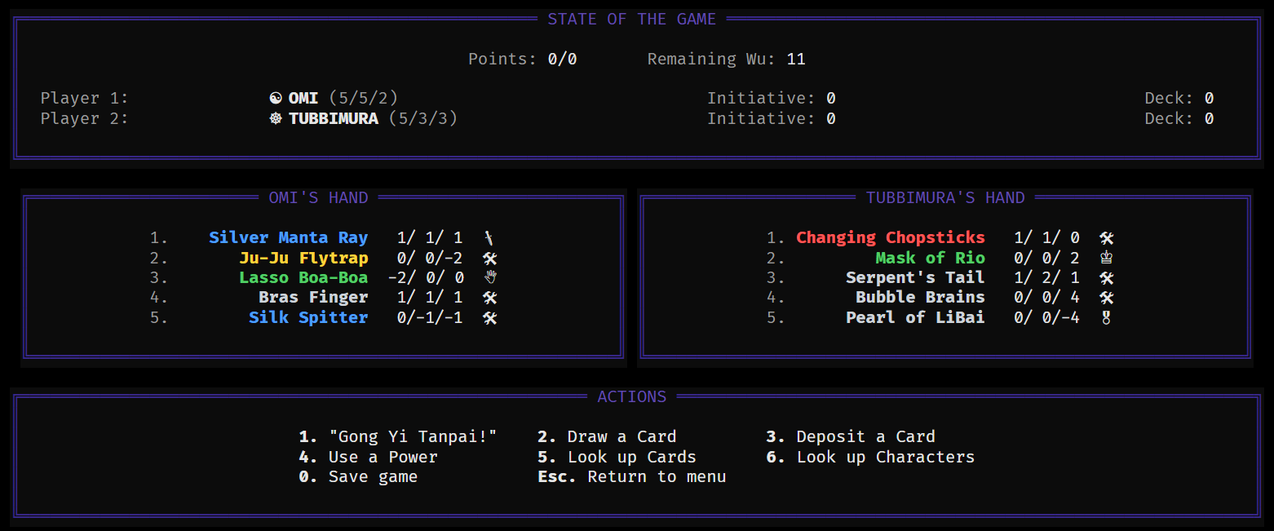
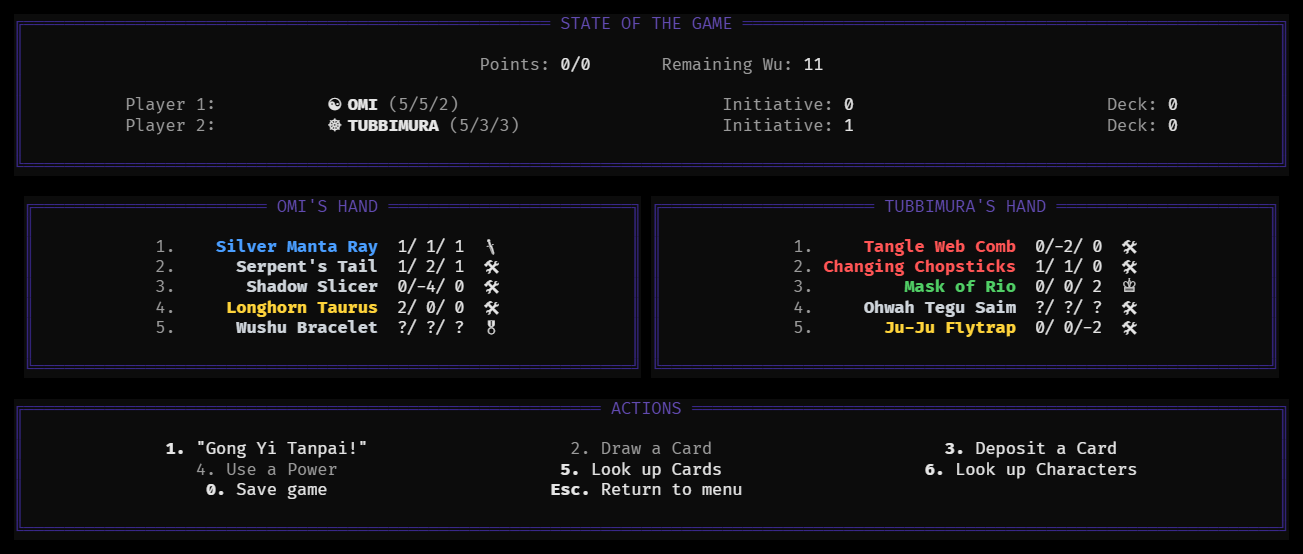
Stop clicks stealing keyboard focus; widen vault state and action rows

diff --git a/engine/termcade/ui/widgets/button.py b/engine/termcade/ui/widgets/button.py
@@ -1,0 +1,18 @@
+"""``Button`` — Textual's button with click-to-focus disabled.
+
+In termcade, focus *is* the keyboard navigation cursor: nothing is focused until the player tabs or
+arrows into the options (``EngineScreen.AUTO_FOCUS = ""``), and the focused option wears a
+reverse-video highlight. Textual focuses any focusable widget on mouse-down
+(``Screen._forward_event`` → ``set_focus``), which would leave that cursor parked on whatever the
+mouse last touched — so a click looked like a selection.
+
+Clicking still presses the button; it just no longer moves the cursor.
+"""
+
+from __future__ import annotations
+
+from textual.widgets import Button as TextualButton
+
+
+class Button(TextualButton):
+    FOCUS_ON_CLICK = False

diff --git a/games/xiaolin_showdown/screens/vault.py b/games/xiaolin_showdown/screens/vault.py
@@ -180,9 +180,12 @@ def _state_grid(player: Player, bot: Player, init_player: int, init_bot: int) ->
 
 
 def _actions_grid(available: dict[str, bool]) -> Table:
-    grid = Table.grid(padding=(0, 4))  # natural width so the panel can centre the whole block
+    # Expand to the panel and split it into three equal columns, so the actions spread across the
+    # width instead of huddling in a natural-width block in the middle. Each entry is centred in its
+    # own column, which keeps the block balanced left-to-right at any panel width.
+    grid = Table.grid(expand=True, padding=(0, 2))
     for _ in range(3):
-        grid.add_column(justify="left")
+        grid.add_column(ratio=1, justify="center")
     for start in range(0, len(_ACTIONS), 3):
         cells: list[Text] = [_action_cell(entry, available) for entry in _ACTIONS[start : start + 3]]
         cells += [Text("")] * (3 - len(cells))

diff --git a/engine/termcade/ui/screens/dialog.py b/engine/termcade/ui/screens/dialog.py
@@ -12,9 +12,9 @@ from typing import TypeVar
 
 from textual.app import ComposeResult
 from textual.screen import ModalScreen
-from textual.widgets import Button, Static
+from textual.widgets import Static
 
-from termcade.ui.widgets import BoxedPanel
+from termcade.ui.widgets import BoxedPanel, Button
 
 T = TypeVar("T")
 

diff --git a/engine/termcade/ui/screens/menu.py b/engine/termcade/ui/screens/menu.py
@@ -13,10 +13,10 @@ from __future__ import annotations
 from dataclasses import dataclass
 
 from textual.app import ComposeResult
-from textual.widgets import Button, Footer, Header, Static
+from textual.widgets import Footer, Header, Static
 from textual.widgets.button import ButtonVariant
 
-from termcade.ui.widgets import BoxedPanel
+from termcade.ui.widgets import BoxedPanel, Button
 
 from .base import EngineScreen
 

diff --git a/games/xiaolin_showdown/screens/deposit.py b/games/xiaolin_showdown/screens/deposit.py
@@ -10,10 +10,10 @@ from typing import cast
 
 from textual import work
 from textual.app import ComposeResult
-from textual.widgets import Button, Footer, Header, Static
+from textual.widgets import Footer, Header, Static
 
 from termcade.ui.screens.base import EngineScreen
-from termcade.ui.widgets import BoxedPanel
+from termcade.ui.widgets import BoxedPanel, Button
 
 from ..logic.actions import deposit
 from ..logic.models import Card

diff --git a/games/xiaolin_showdown/screens/lookup.py b/games/xiaolin_showdown/screens/lookup.py
@@ -5,10 +5,10 @@ from __future__ import annotations
 from typing import Literal, cast
 
 from textual.app import ComposeResult
-from textual.widgets import Button, Footer, Header, Static
+from textual.widgets import Footer, Header, Static
 
 from termcade.ui.screens.base import EngineScreen
-from termcade.ui.widgets import BoxedPanel
+from termcade.ui.widgets import BoxedPanel, Button
 
 from ..logic.models import Card
 from ..logic.state import XiaolinState

diff --git a/games/xiaolin_showdown/screens/outcome.py b/games/xiaolin_showdown/screens/outcome.py
@@ -9,10 +9,10 @@ from __future__ import annotations
 from typing import cast
 
 from textual.app import ComposeResult
-from textual.widgets import Button, Footer, Header, Static
+from textual.widgets import Footer, Header, Static
 
 from termcade.ui.screens.base import EngineScreen
-from termcade.ui.widgets import BoxedPanel
+from termcade.ui.widgets import BoxedPanel, Button
 
 from ..logic.outcome import final_score
 from ..logic.state import XiaolinState

diff --git a/games/xiaolin_showdown/screens/settings.py b/games/xiaolin_showdown/screens/settings.py
@@ -12,11 +12,11 @@ from dataclasses import fields, replace
 
 from textual.app import ComposeResult
 from textual.containers import Horizontal
-from textual.widgets import Button, Footer, Header, Input, Static
+from textual.widgets import Footer, Header, Input, Static
 
 from termcade.core.settings import Difficulty
 from termcade.ui.screens.base import EngineScreen
-from termcade.ui.widgets import BoxedPanel
+from termcade.ui.widgets import BoxedPanel, Button
 
 from ..logic.settings import XiaolinSettings, is_hard
 

diff --git a/games/xiaolin_showdown/screens/start.py b/games/xiaolin_showdown/screens/start.py
@@ -4,12 +4,12 @@ from __future__ import annotations
 
 from textual.app import ComposeResult
 from textual.containers import Center, Vertical
-from textual.widgets import Button, Footer, Header, Static
+from textual.widgets import Footer, Header, Static
 
 from termcade.ui.app import BANNER
 from termcade.ui.screens.base import EngineScreen
 from termcade.ui.screens.save_slot import SaveSlotScreen
-from termcade.ui.widgets import BoxedPanel
+from termcade.ui.widgets import BoxedPanel, Button
 
 from ._logo import SUBTITLE_ART, TITLE_ART
 from .character_select import CharacterSelectScreen

diff --git a/games/xiaolin_showdown/screens/use_power.py b/games/xiaolin_showdown/screens/use_power.py
@@ -9,10 +9,10 @@ from __future__ import annotations
 from typing import cast
 
 from textual.app import ComposeResult
-from textual.widgets import Button, Footer, Header, Static
+from textual.widgets import Footer, Header, Static
 
 from termcade.ui.screens.base import EngineScreen
-from termcade.ui.widgets import BoxedPanel
+from termcade.ui.widgets import BoxedPanel, Button
 
 from ..logic.actions import usable_powers, use_power
 from ..logic.models import Card

diff --git a/engine/termcade/ui/widgets/__init__.py b/engine/termcade/ui/widgets/__init__.py
@@ -1,5 +1,6 @@
 """Reusable engine widgets (games compose these; a game reskins via CSS tokens)."""
 
+from .button import Button
 from .panel import BoxedPanel
 
-__all__ = ["BoxedPanel"]
+__all__ = ["BoxedPanel", "Button"]